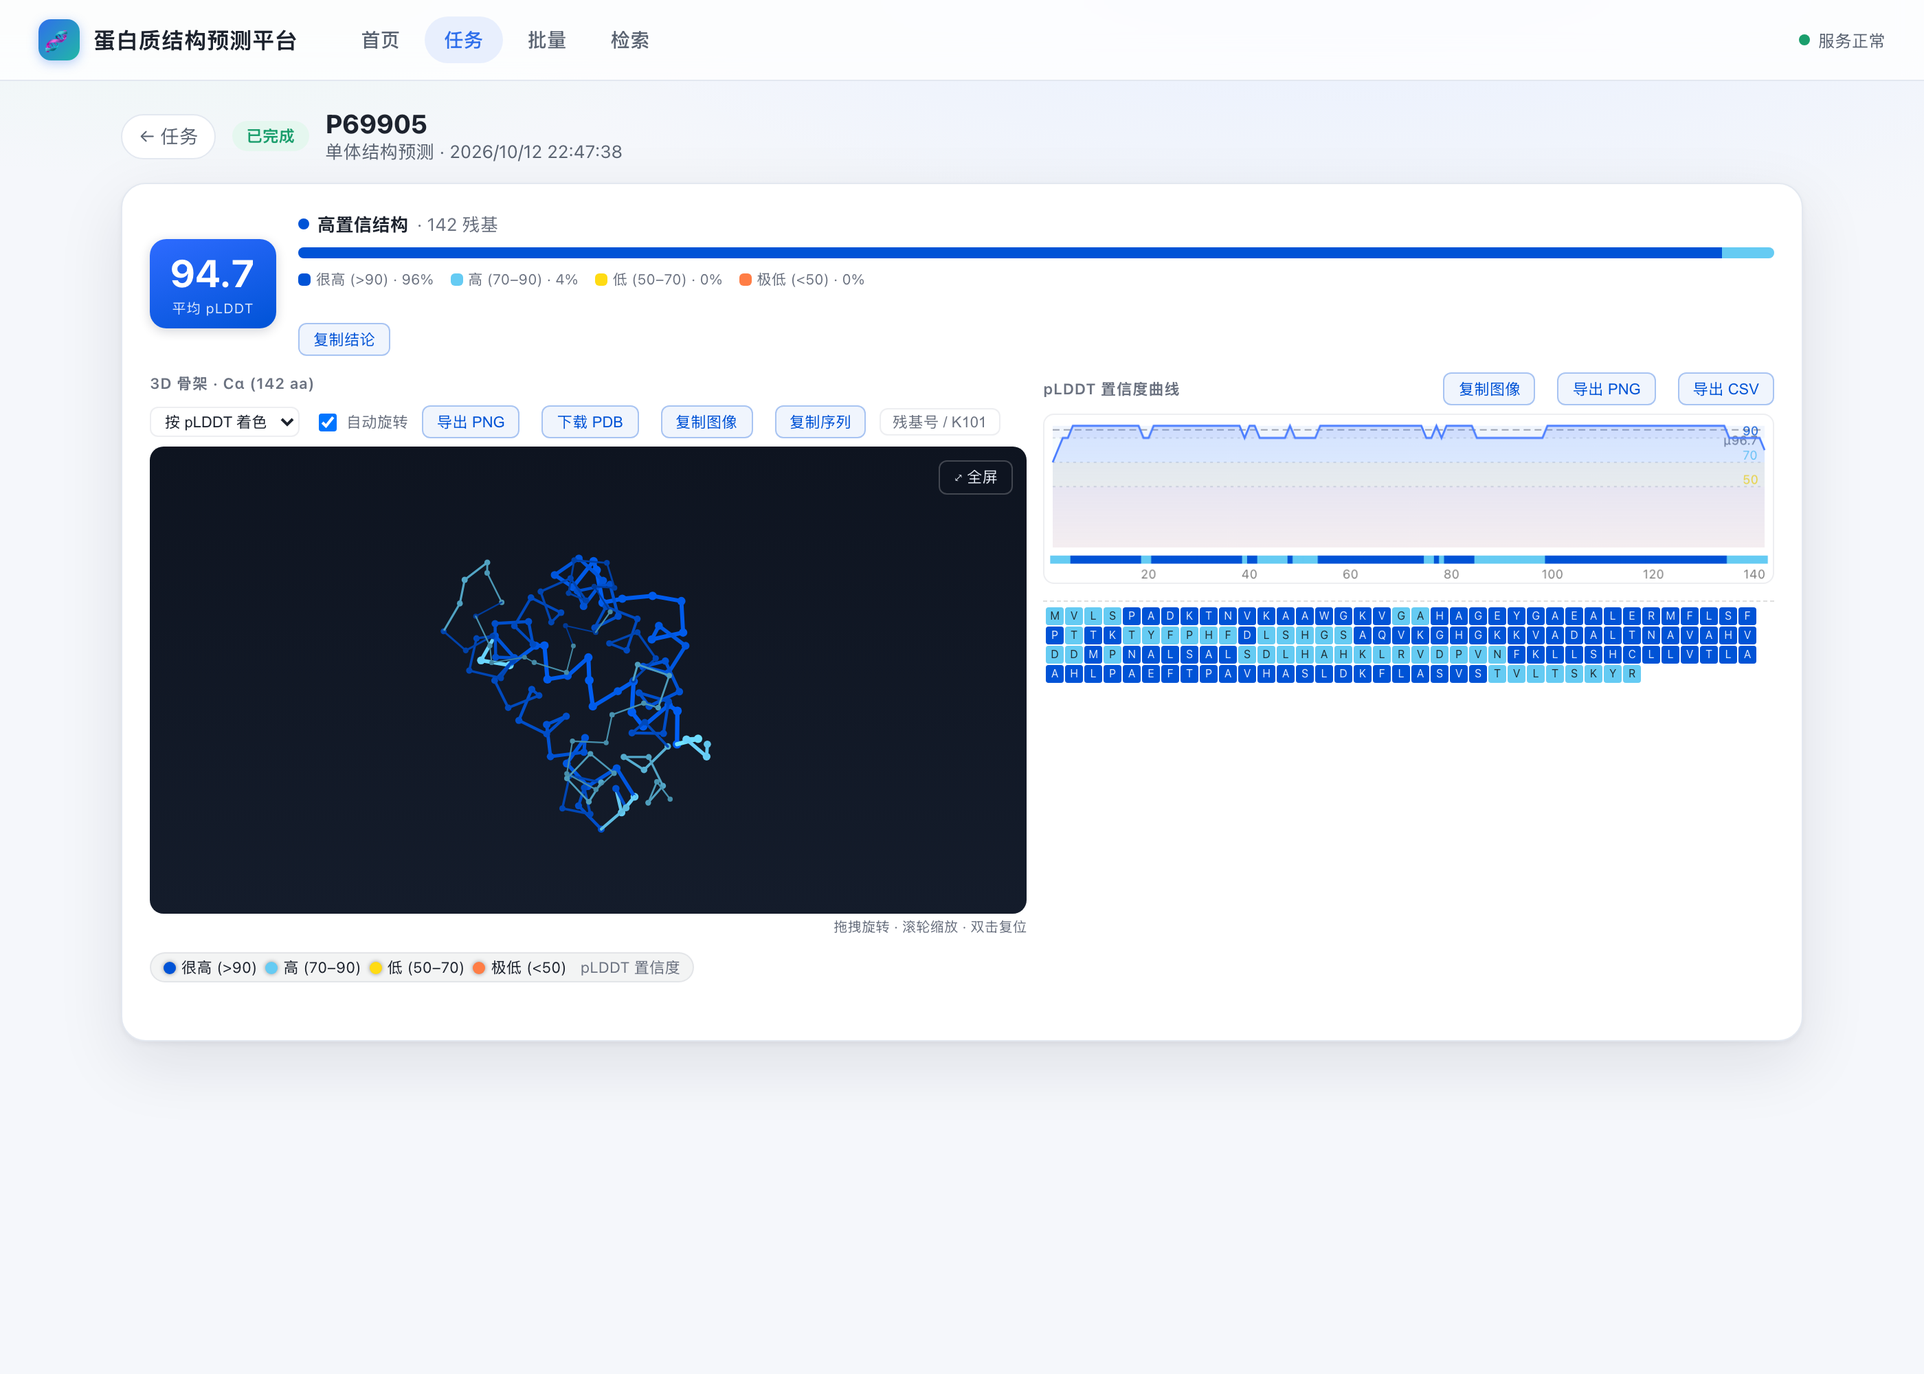
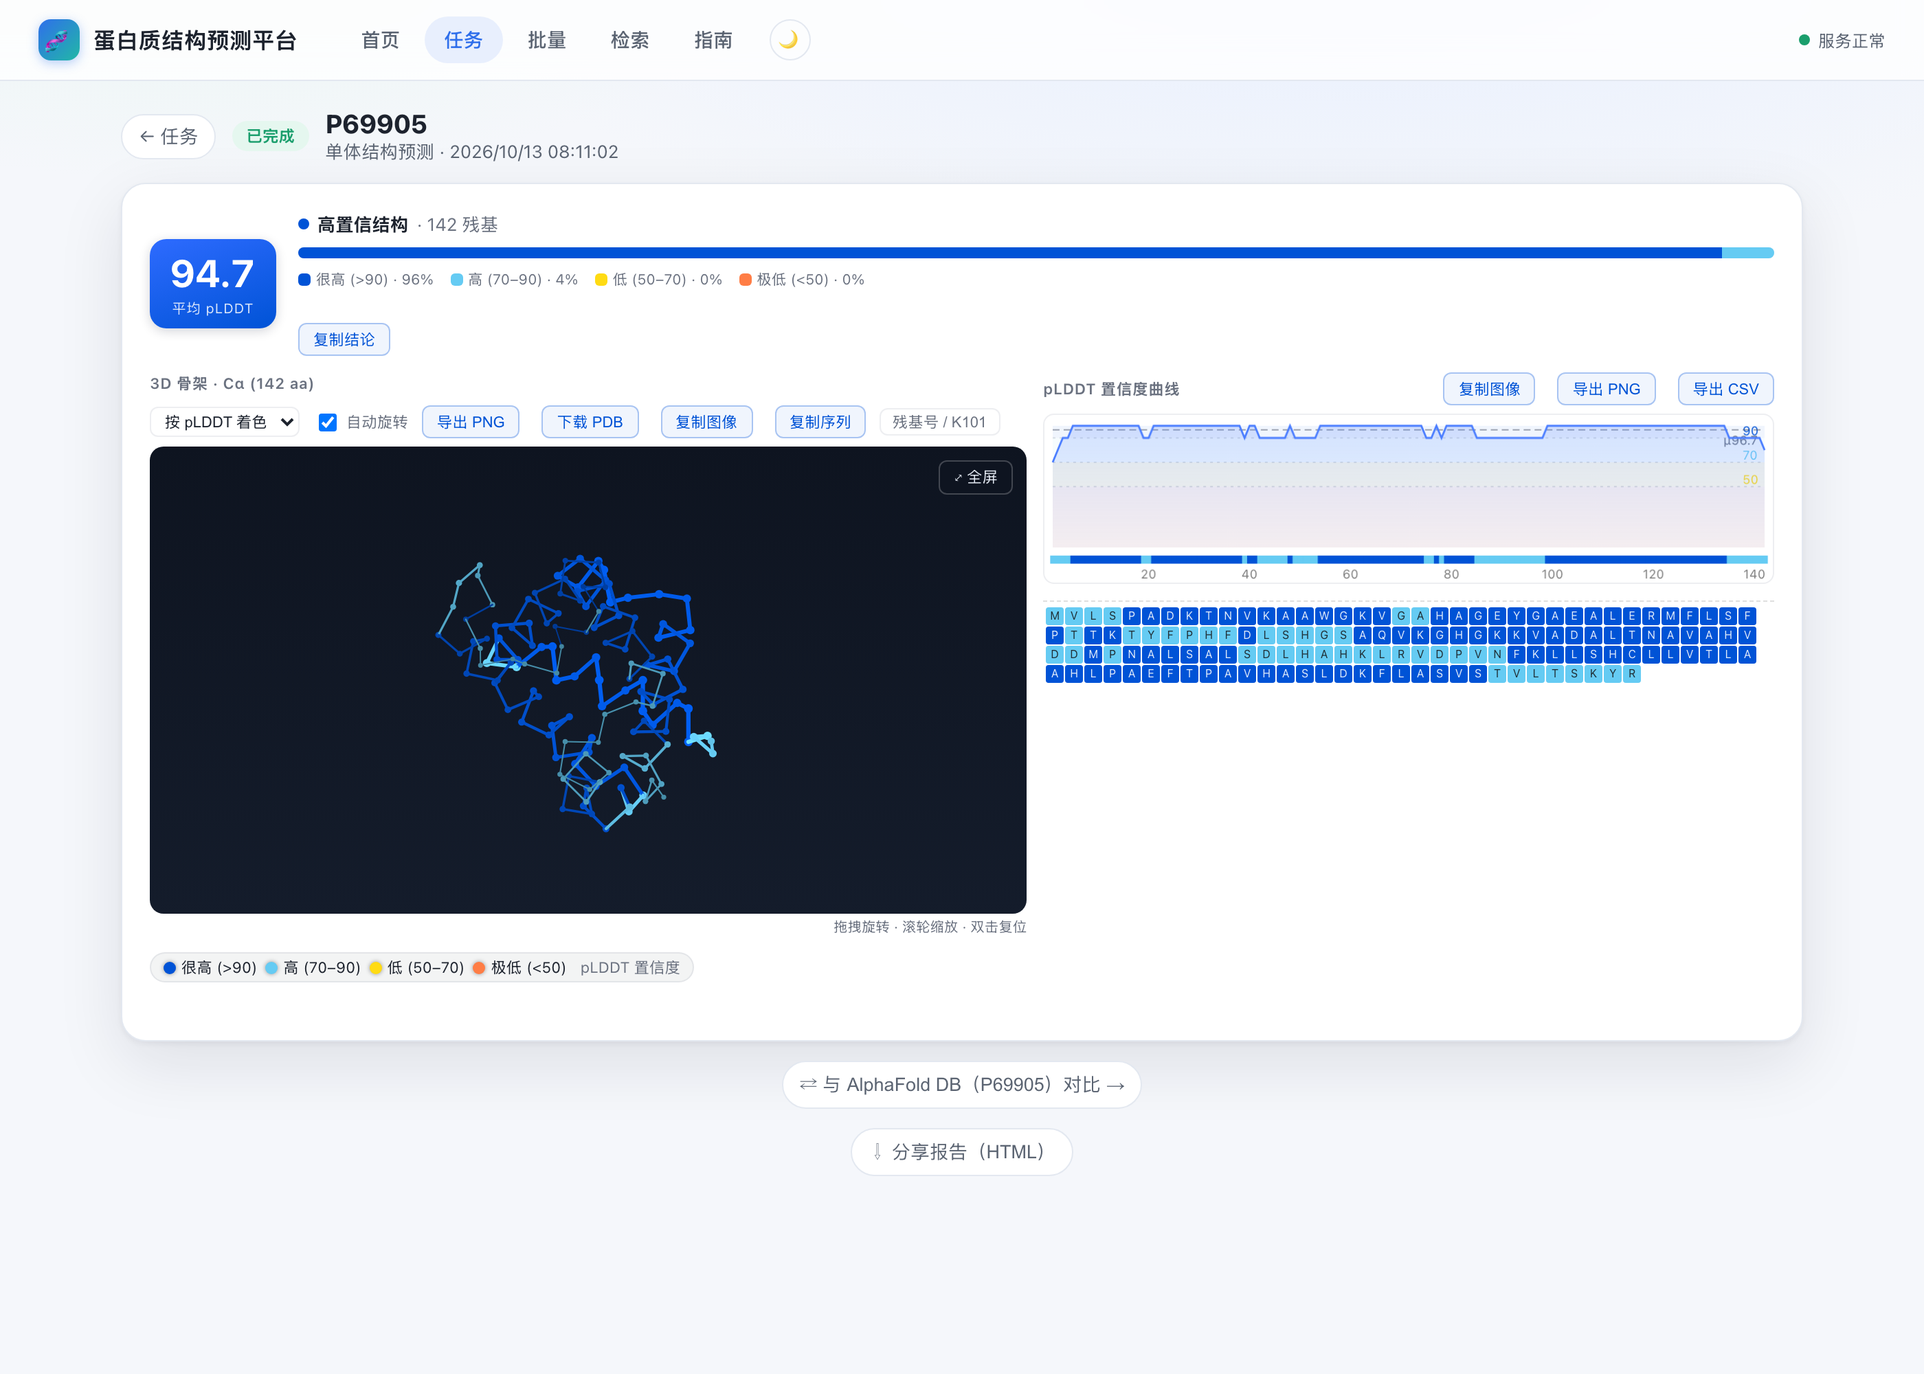
fix: BFF 503 假回归结案——真实 session 一直健康；加 503 服务端日志与客户端瞬时重试
- 结案：bogus sessionId 探针触发 E_WORKSPACE_REQUIRED 被 handler catch 掩盖成
  E_PACKAGE_STATE；重启窗口打断归档写入是另一假象。BFF 从未坏。
- package-admin.ts：503 时 console.warn 带真实 reason（页面契约不变）
- bff.ts：bffPost 对 502/503/504 重试 2×1.5s，骑过重启窗口
- dev-tests/pp-bff-probe.mts：真实 session BFF 探针（含教训头注），
  删除误导性的 bogus-only packages/sdk/bff-probe.mts
- 本机验证：typecheck 过、REAL-SESSION OK、pp-search-smoke PASS（归档落盘）
- HANDOFF.md 更新为结案版：服务器同步步骤 + 远端探针矩阵交接

Changed region(s): [[0.2175, 0.403, 0.3729, 0.62], [0.435, 0.775, 0.5593, 0.806], [0.2796, 0.093, 0.3107, 0.124]]

diff --git a/examples/packages/protein-platform/client/src/bff.ts b/examples/packages/protein-platform/client/src/bff.ts
@@ -10,22 +10,38 @@ let cfgRef: PlatformConfig | null = null
 const sessionIdRef = { current: null as string | null }
 let singleton: PvServices | null = null
 
+/** A daemon/surface restart mid-task turns in-flight BFF posts into 502/503/504.
+ *  These are transient by construction — retry them (short, bounded) instead of
+ *  failing the task's report fetch or archive write. */
+async function bffPost(body: Record<string, unknown>): Promise<Response> {
+  let r = await fetch(cfgRef!.bffPath, {
+    method: 'POST',
+    headers: { 'content-type': 'application/json' },
+    body: JSON.stringify(body),
+  })
+  for (let i = 0; i < 2 && (r.status === 502 || r.status === 503 || r.status === 504); i++) {
+    await new Promise((resolve) => setTimeout(resolve, 1500))
+    r = await fetch(cfgRef!.bffPath, {
+      method: 'POST',
+      headers: { 'content-type': 'application/json' },
+      body: JSON.stringify(body),
+    })
+  }
+  return r
+}
+
 export function initServices(cfg: PlatformConfig): PvServices {
   cfgRef = cfg
   singleton ??= {
     async call(service, input) {
       const sessionId = sessionIdRef.current
       if (!sessionId) throw new Error('no active session')
-      const r = await fetch(cfgRef!.bffPath, {
-        method: 'POST',
-        headers: { 'content-type': 'application/json' },
-        body: JSON.stringify({
-          profile: cfgRef!.profile,
-          rowId: cfgRef!.rowId,
-          sessionId,
-          service,
-          input,
-        }),
+      const r = await bffPost({
+        profile: cfgRef!.profile,
+        rowId: cfgRef!.rowId,
+        sessionId,
+        service,
+        input,
       })
       if (!r.ok) throw new Error(`${service}: HTTP ${r.status}`)
       const j = (await r.json()) as { output?: unknown; error?: string }
@@ -53,11 +69,7 @@ export async function bffCall(
   service: string,
   input: Record<string, unknown>,
 ): Promise<any> {
-  const r = await fetch(cfgRef!.bffPath, {
-    method: 'POST',
-    headers: { 'content-type': 'application/json' },
-    body: JSON.stringify({ profile: cfgRef!.profile, rowId: cfgRef!.rowId, sessionId, service, input }),
-  })
+  const r = await bffPost({ profile: cfgRef!.profile, rowId: cfgRef!.rowId, sessionId, service, input })
   if (!r.ok) throw new Error(`${service}: HTTP ${r.status}`)
   const j = (await r.json()) as { output?: unknown; error?: string }
   if (j.error) throw new Error(`${service}: ${j.error}`)

diff --git a/packages/cli/launch/package-admin.ts b/packages/cli/launch/package-admin.ts
@@ -277,9 +277,13 @@ export function localPackageAdmin(backend: LocalBackend, origin: string) {
       try {
         const result = await client.clientModules.callService(params as ClientModuleServiceCallParams)
         serviceReply(response, 200, result)
-      } catch {
+      } catch (e) {
         // No host/worker exception crosses this boundary. A stale/untrusted row and a transient
-        // backend failure deliberately look alike to the page.
+        // backend failure deliberately look alike to the page — but the real reason (e.g. a
+        // stale session's E_WORKSPACE_REQUIRED) must reach the launcher log or every 503 is
+        // undebuggable.
+        const rpcData = (e as { data?: unknown }).data
+        console.warn('[bff] callService failed:', (e as Error)?.message ?? e, rpcData ? JSON.stringify(rpcData) : '')
         serviceReply(response, 503, { error: 'service unavailable' })
       }
       return true

diff --git a/HANDOFF.md b/HANDOFF.md
@@ -1,111 +1,78 @@
-# 交接文档：BFF 503 / E_PACKAGE_STATE 排查（2026-10-13）
+# 交接文档：蛋白质平台迭代（2026-10-13，BFF 503 已结案）
 
-> 给下一个窗口的完整交接。读这份文档 + 记忆库即可接手，不要重做已完成的排除项。
+> 给下一个窗口。上一轮（第 13 轮前半）已把 BFF 503 排查**结案**——结论比预期简单：BFF 从来没坏。
 
-## 0. 任务背景
+## 0. 一句话现状
 
-8 小时蛋白质科研 Agent 产品迭代（examples/packages/protein-platform）。清单优先级 1-5 已全部落地。
-用户最后两个问题：①「为什么点击不了开始预测」②「多测试一下前端功能」。
+产品功能清单 1-5 全部落地；「开始预测」已修（wsUrl 层）；**BFF 503 假回归已结案**（见 §1）；
+本地 daemon/web 全新运行且 search smoke E2E PASS。**下一个窗口的主任务是：
+「多测试一下前端功能」= 远端全套探针矩阵（§3），外加服务器侧同步两处小改（§2）。**
 
-**「开始预测」已修好第一层**：config.json wsUrl 被 republish 抹成 loopback（发布必须带
-`PP_SURFACE_WS_URL=wss://hambobo.tail81da4f.ts.net/agnesd`）→ 已重发+重启服务器 daemon，按钮能点了。
+## 1. BFF 503 结案报告（勿再排查）
 
-**第二层（当前唯一阻塞）**：BFF `POST /api/client-modules/service` 在**本机和服务器都**返回
-503 `{"error":"service unavailable"}`（package-admin.ts:280-284 吞掉真实错误）。后果：
-任务能跑完（agent WS 链路正常）但页面侧归档写不进去（`archive write failed: protein.report: HTTP 503`），
-SearchCard/BatchCard/归档结果页全部退化为 raw preview 兜底。前端功能大测试被它阻塞。
+- **真相**：BFF 从来没有回归。之前两轮被两个假象误导：
+  1. **bogus sessionId 探针**：对不存在的 session，worker 抛
+     `E_WORKSPACE_REQUIRED`（session-workspace-runtime.ts:321 `acquire`），被
+     handler.ts:501-505 的 catch 掩盖——非数字 code 的错误全部 `packageError`→E_PACKAGE_STATE，
+     于是呈现为 `SEMANTIC_REJECTED {reason:'E_PACKAGE_STATE'}`。真实 session 的 BFF 一直正常。
+  2. **重启窗口期**：search 任务 tmv62hiepr4xe 的归档 503 发生在 daemon 重启中途（round-12
+     pkill 重启打断在跑链路是已知教训）。
+- **实证**：`examples/packages/dev-tests/pp-bff-probe.mts`（真实 workspace.add+session.new 流程）
+  REAL-SESSION OK；`pp-search-smoke.mjs` 本地 PASS（SearchCard 渲染 + 归档落盘）。
+  worker 审计 `~/agh-home/data/audit/host.jsonl` 里有 7174 条 service-call、02:40 就有成功的
+  client-web 调用——审计是定位神器（daemon.jsonl 是 plugin.tree 事件，host.jsonl 才有 service-call）。
+- **本轮顺手落地的两个小改**（已 typecheck+实测）：
+  1. `packages/cli/launch/package-admin.ts`：BFF 503 时服务端 `console.warn('[bff] …')` 带
+     真实 reason（页面仍统一 503，设计不变；日志落在 web-local 进程 stdout，本机 /tmp/agh-web.log）。
+  2. `examples/packages/protein-platform/client/src/bff.ts`：`bffPost()` 对 502/503/504
+     重试 2 次×1.5s——骑过重启窗口，任务归档写不再被瞬时 503 打断。
+- **探针卫生**：误导性的 bogus-only 探针（原 packages/sdk/bff-probe.mts）已删除；
+  真实 session 探针移到 `examples/packages/dev-tests/pp-bff-probe.mts`，以后怀疑 BFF 先跑它。
 
-## 1. 排查进度（本轮已完成，勿重做）
+## 2. 服务器侧待同步（远端测试前做）
 
-### 已排除
-- ❌ operations ledger 损坏 → `~/agh-home/data/daemon/package-operations/operations.json` 健康
-  （150 completed / 2 failed / 0 pending），`recoveryError`（E_PACKAGE_INTEGRITY）不成立。
-- ❌ **deferred-package-activation 假说（我上一窗口的主嫌疑）已排除**：SDK 探针
-  `clientModules.list('local-dev')` 返回 row `web:@aghes/protein-view` →
-  `phase:"ready"`, `enabled:true`, `packageId:"@aghes/protein-view"`,
-  `moduleName:"plugin/58fc8e52cf789e71"`, revision sha256-5e02f40c…。
-  phase=ready 意味着 activation.actual() 返回了真实 observation 且 actualIntegrity 匹配 ——
-  **绑定是真的**，不是 deferred unavailable。
-- ❌ roster 行匹配失败（那会抛 CAPABILITY_DENIED，不是我们看到的 SEMANTIC_REJECTED/E_PACKAGE_STATE）。
-- ❌ host/ext-host 层（service-invocation.ts）只产 CAPABILITY_DENIED / INVALID_PARAMS /
-  REQUEST_TIMEOUT / INTERNAL_ERROR；activation-barrier.ts 只产 OVERLOADED。都不产 E_PACKAGE_STATE。
+本机两处改动需要上服务器（WSL，`ssh -F /dev/null -i ~/.ssh/agh_key -o IdentitiesOnly=yes
+serverofWHB@100.91.157.78`，`export PATH=$HOME/.local/node24/bin:$PATH`）：
 
-### 原始错误形态（SDK unix socket 直探）
+1. **bff.ts 重试**（platform client bundle）：本机 build 平台 → scp `dist/` 到服务器 deploy 目录 →
+   republish **必须带 `PP_SURFACE_WS_URL=wss://hambobo.tail81da4f.ts.net/agnesd`**（否则 wsUrl
+   被抹成 loopback，提交按钮又灰）→ `systemctl --user restart agnes-daemon`。
+2. **package-admin.ts 日志**（launcher）：服务器若从 git 仓库跑，pull 后 rebuild cli dist +
+   重启；若只 scp 过 dist，则同样 scp 对应产物。低优先——只是可观测性，不影响功能。
+
+## 3. 主任务：前端功能大测试（用户明确要求）
+
+远端模式跑全套探针（凭据纪律：密码经 ssh 读 `/mnt/c/agh-home/caddy-credentials.txt` 的 guest 行
+进 env，**不打印**；探针用 `PP_BASE=https://hambobo.tail81da4f.ts.net/platform/ PP_USER=guest
+PP_PASS=$GPW`）：
+
 ```
-message: SEMANTIC_REJECTED (-32011)
-data: {"reason":"E_PACKAGE_STATE","code":"SEMANTIC_REJECTED"}
+pp-search-smoke  pp-complex-full  pp-batch-smoke  pp-compare-smoke  pp-batch-compare-smoke
+pp-cancel-smoke  pp-retry-smoke   pp-share-report  pp-archive-roundtrip
+pp-wall-filter   pp-tasks-filter  pp-composer-inspect  pp-thumb-wall --shots
 ```
-这个 `{reason: code}` 形状 = `operationError` 风格（handler.ts）或 worker 侧 E_EXT_LOAD→
-E_PACKAGE_STATE 映射（packages/package-manager/src/errors.ts:10 有 `E_EXT_LOAD: 'E_PACKAGE_STATE'`）。
 
-### 完整调用链（已追到 worker 边界）
-```
-package-admin.ts:283 (503 吞错)
-→ handler.ts:739 clientModulesCallService（roster 匹配 ✅ 通过）
-→ supervisor.ts:2362 clientServiceCall → packageClientServiceCall
-→ supervisor.ts:1466 dispatchClientService：
-    inspectService(params, credential) 必须 kind==='query'（否则 CAPABILITY_DENIED）
-    → callService(params, credential)
-→ service-worker.ts:66/76 workerServiceCaller/Inspector → callWorker → pool.acquireSharedWorker
-    → link.command('inspectService'/'callService', {callId, sessionKey, call, credential}, 31s)
-→ 【业务 worker 进程内】packages/worker-runtime/src/{main,commands,frames,hosted-sessions}.ts
-    → host.callService（packages/host/src/host.ts:176）
-    → activationBarrier.admit('service') → prepareService → workspaceRuntimes.invocation(sessionId)
-    → serviceInvoker（packages/host/src/ext-host/service-invocation.ts:62）
-```
-**结论：错误产生在业务 worker 进程内、worker-runtime 命令层或 host.assemble 的
-`workspaceRuntimes.invocation` / `publicationDispatch`（sessionKey→workspace→扩展运行时解析）。
-最可疑：worker 侧扩展加载（E_EXT_LOAD→E_PACKAGE_STATE 映射），例如 worker 持有的 runtime target
-与本机 profile lock 在 round-12 pkill 重启后失配。**
+本机模式再跑 `pp-platform-live.mjs --shots`（单体全流程）+ `pp-help-smoke`。输出 PASS/FAIL
+矩阵汇报。已知 flake：compare smoke 的 "compare button not visible"（重跑即过）；探针要在
+关浏览器前等归档落盘。**注意：重启服务器 unit 会打断在跑的远端探针——先同步 §2 再开跑，
+跑的过程中不再动服务器。**
 
-## 2. 下一步排查计划（按序）
+## 4. 环境速查
 
-1. **审计定位**：`grep extension.service-call ~/agh-home/data/audit/daemon.jsonl | tail`。
-   serviceInvoker 的 finally 会写审计行。发起一次 bff-probe 后看：
-   - 无新审计行 → 死在 worker-runtime 命令层 / workspaceRuntimes.invocation（serviceInvoker 之前）。
-   - 有行（outcome=INTERNAL_ERROR 等）→ 死在 serviceInvoker 内部映射。
-2. **读 worker-runtime 命令层**：packages/worker-runtime/src/commands.ts 的
-   inspectService/callService handler，找 error 序列化与 E_EXT_LOAD/E_PACKAGE_STATE 来源；
-   `workspaceRuntimes.invocation` 在 packages/host/src/assemble.ts（grep `invocation(`）。
-3. **对照实验**：daemon 刚重启后 BFF 是否立刻 503？还是 worker 起来后恢复？若「重启即坏、
-   从不恢复」→ worker 侧 runtime target reconcile 没跑/没绑定（对照 supervisor.ts:1410
-   `bindRuntimePins` / 1425 `publishProbedRuntimeTarget` 是否在本次 boot 执行）。
-4. **修复后验证**：`node --import tsx packages/sdk/bff-probe.mts`（AGH_HOME=$HOME/agh-home）
-   期望 callService 返回 ok（或 CAPABILITY_DENIED 以外的正常结果）+ curl BFF 200。
-5. 服务器端同修：改完先本机验证，再 scp+republish（**必须带
-   PP_SURFACE_WS_URL=wss://hambobo.tail81da4f.ts.net/agnesd**）+ `systemctl --user restart
-   agnes-daemon`（server.mjs/surface 改动必须重启 daemon，血泪教训见记忆）。
-6. BFF 修好后执行「多测试一下前端功能」：远端跑全套探针
-   （PP_BASE=https://hambobo.tail81da4f.ts.net/platform/ + PP_USER/PP_PASS 经 ssh 读
-   /mnt/c/agh-home/caddy-credentials.txt，不打印）：pp-platform-live(本机)、pp-search-smoke、
-   pp-complex-full、pp-batch-smoke、pp-compare-smoke、pp-batch-compare-smoke、pp-wall-filter、
-   pp-tasks-filter、pp-composer-inspect、pp-cancel-smoke、pp-retry-smoke、pp-share-report、
-   pp-archive-roundtrip，输出 PASS/FAIL 矩阵汇报。
-
-## 3. 环境与操作规程（浓缩）
-
-- 本机：`cd /Users/wanghanbao/agnes-harness && AGH_HOME=$HOME/agh-home AGNES_PROFILE=local-dev`。
-  发布平台：`cd examples/packages/protein-platform && node tools/build.mjs && AGH_HOME=… 
-  AGNES_PROFILE=… node --import tsx ../dev-tests/agh-update-platform.mts`（dev-tests 在
-  examples/packages/dev-tests）。改 server.mjs 类代码后：kill daemon+web 两 pid → nohup 重启
-  （见记忆 agh-daemon-restart-ritual）。
-- 服务器：`ssh -F /dev/null -i ~/.ssh/agh_key -o IdentitiesOnly=yes serverofWHB@100.91.157.78`，
-  `export PATH=$HOME/.local/node24/bin:$PATH`；units: agnes-daemon/agnes-web/caddy（Linger=yes）。
-- 公网：https://hambobo.tail81da4f.ts.net/platform/（funnel 已验证公开）；guest 只读闸门已上线。
-- 凭据纪律：**任何密码/key 不进聊天**；guest 密码经 ssh sed 读入 env（记忆里有现成命令）。
+- 本机：`cd /Users/wanghanbao/agnes-harness && AGH_HOME=$HOME/agh-home AGNES_PROFILE=local-dev`；
+  daemon/web 日志现在固定在 `/tmp/agh-daemon.log`、`/tmp/agh-web.log`（nohup）。
+- 发布平台：`cd examples/packages/protein-platform && node tools/build.mjs &&
+  AGH_HOME=$HOME/agh-home AGNES_PROFILE=local-dev node --import tsx ../dev-tests/agh-update-platform.mts`
+  （本地不带 PP_SURFACE_WS_URL 没关系；服务器必须带）。
+- 公网：https://hambobo.tail81da4f.ts.net/platform/（guest 只读闸门已上线）。
+- 凭据：任何密码不进聊天；gpw 读取命令模板在本文件 §3 和记忆 agh-server-deploy。
 - git：每轮收尾 commit main + push origin（HongboWanggl/Hacker），勿 push upstream；
   末尾 `Co-Authored-By: Claude Code <noreply@anthropic.com>`。
 
-## 4. 待办（BFF 之外）
+## 5. 遗留小项
 
-- funnel 真公网路径 WS 对 h1 客户端挂起（HTTP 正常；tailnet 内 node WS 正常）——外部测试者能否连
-  WS 待验证，未修。
-- 服务器 caddy 临时 access log（`~/.local/caddy/Caddyfile` 的 `log { output file … }` 块）调试完要撤。
-- 本探针 `packages/sdk/bff-probe.mts` 是临时件，BFF 修好、验证完删掉。
-- 服务器上 smoke 生成的归档被 guest DELETE 事故删掉一份（无用户数据），如需可重跑 smoke 补。
+- funnel 真公网路径 WS 对 h1 客户端挂起（HTTP 正常；tailnet 内正常；浏览器 401→重试 dance 能过）
+  ——外部测试者能否连 WS 待真实反馈验证，未修。
+- 服务器 caddy 临时 access log（`~/.local/caddy/Caddyfile` 的 `log { output file … }` 块）测试期结束要撤。
+- 服务器上 smoke 生成的一份数据库归档被 guest DELETE 事故删掉（无用户数据），跑 smoke 会自然补回。
 - Backlog（低优）：归档列表分页；batch 逐目标实时进度；报告墙排序。
-
-## 5. 本轮代码改动（未提交的只有探针一行修正）
-
-- packages/sdk/bff-probe.mts：list 调用签名修正（`clientModules.list('local-dev')`，SDK 包装层
-  收字符串不是对象）。其余工作已在前几轮 commit（73c98ac / 513c6ba / 2bed1e6 / 8e515fe 等）。
